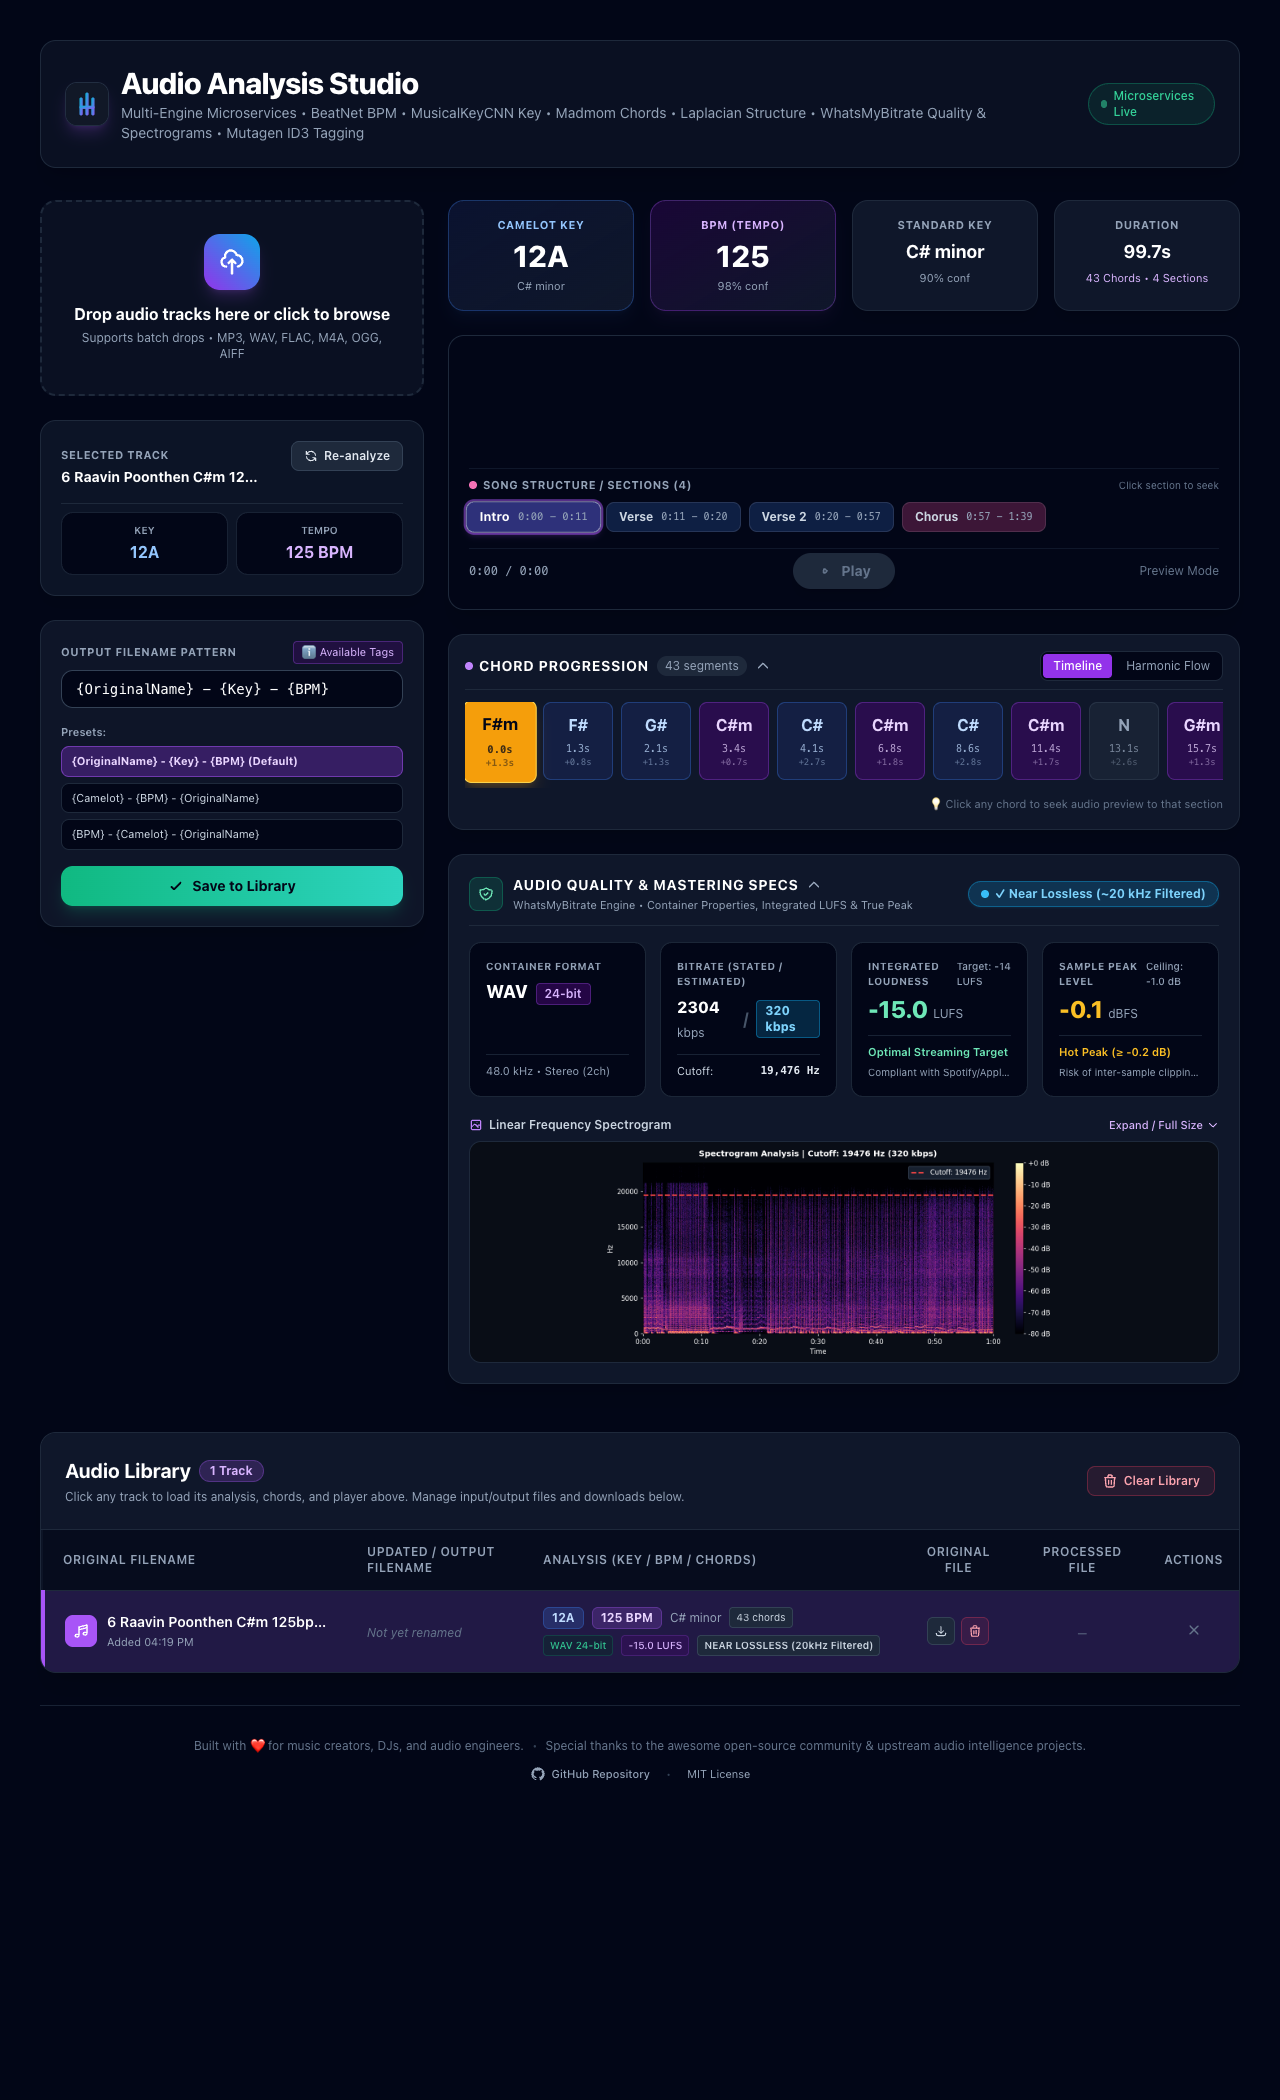
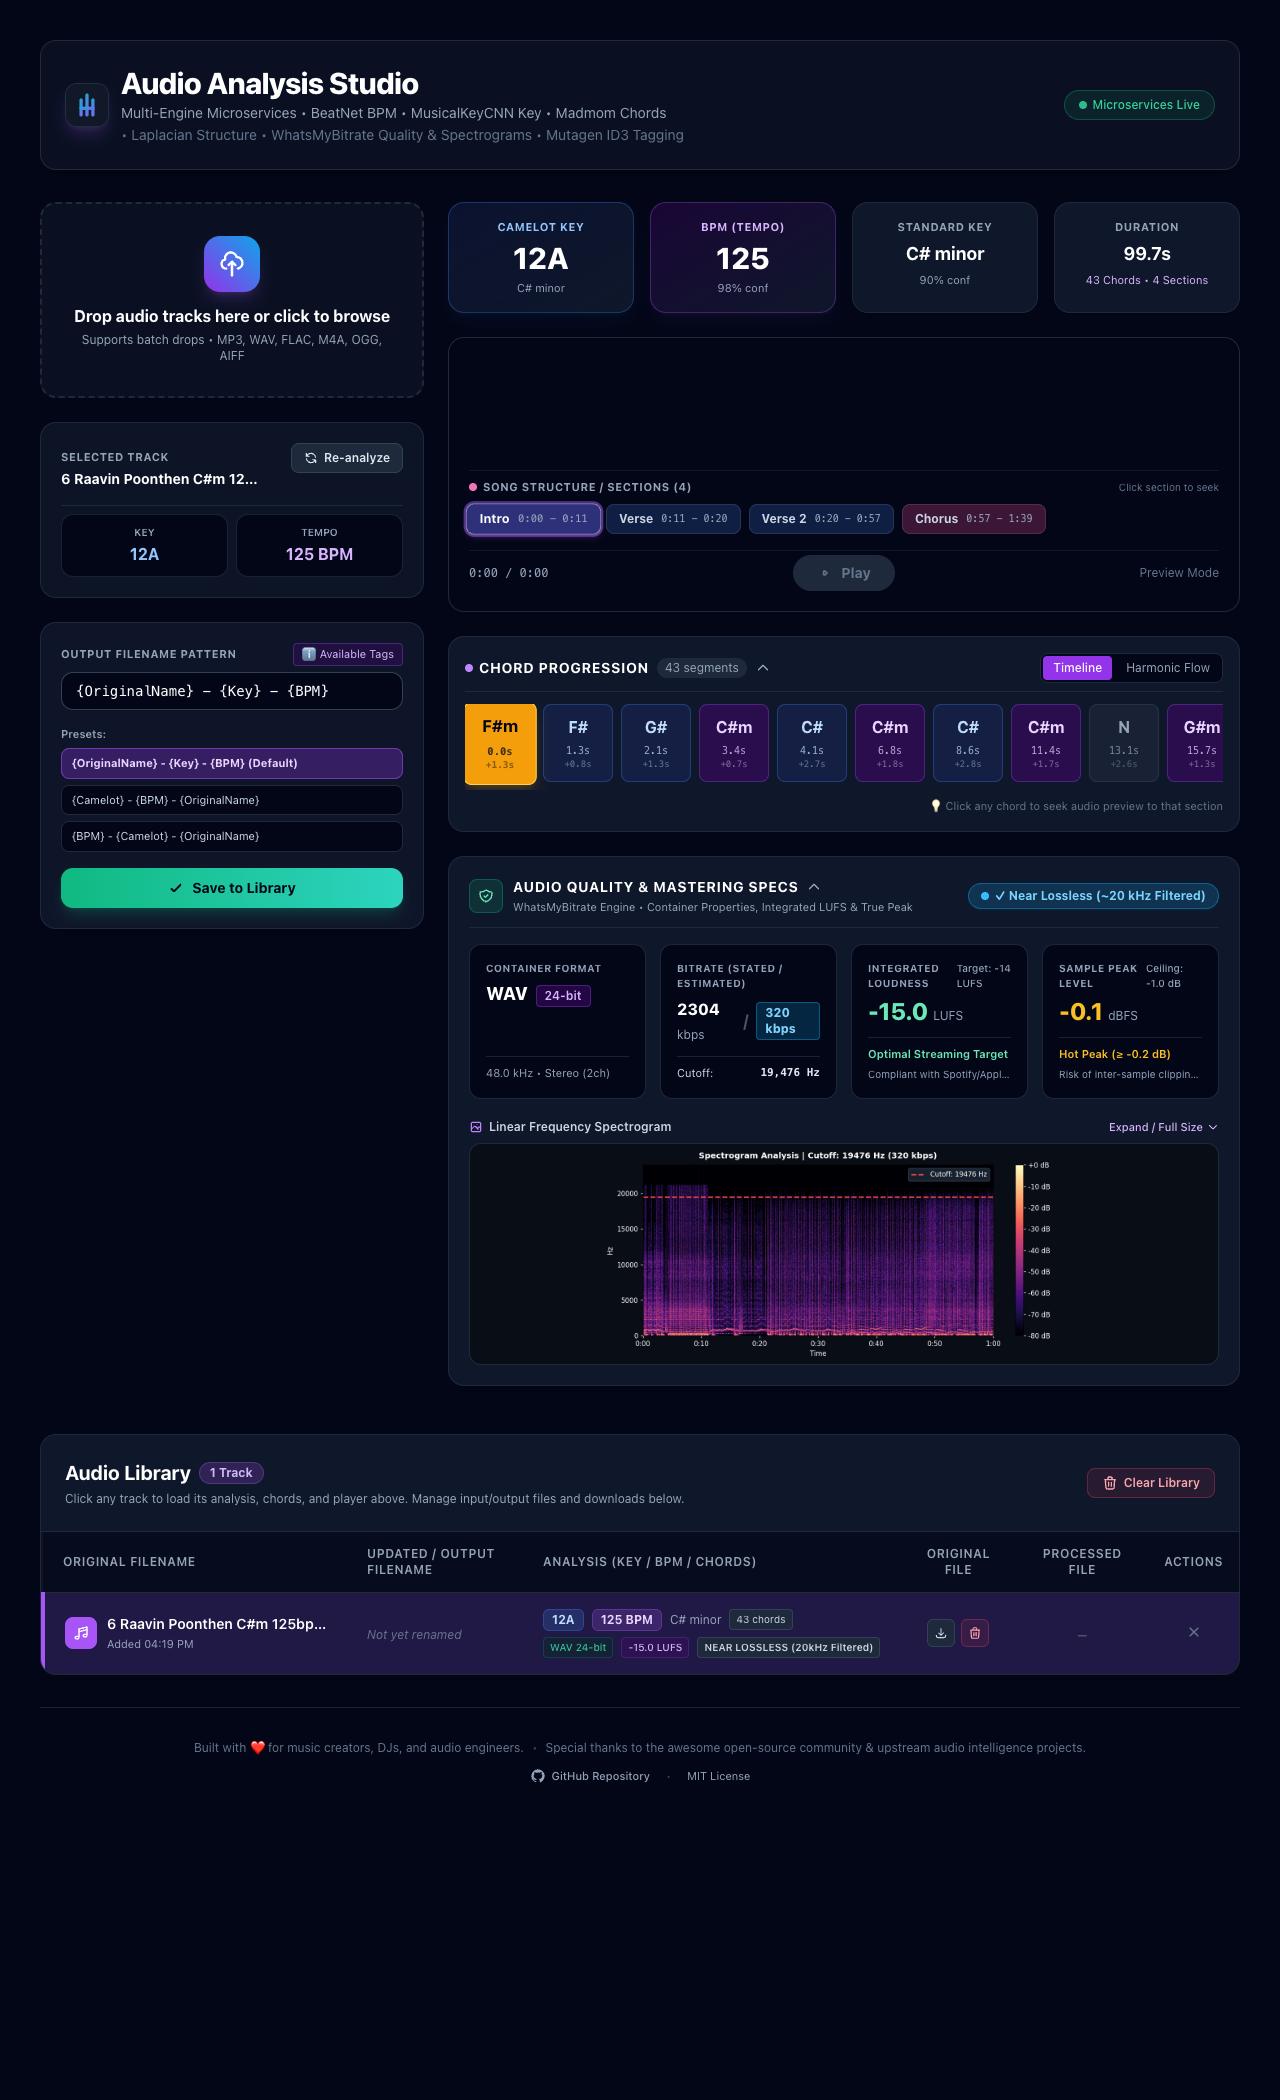
style(header): split subtitle into two lines and keep Microservices Live badge in one line

diff --git a/frontend/src/App.tsx b/frontend/src/App.tsx
@@ -81,15 +81,16 @@ function App() {
                 <h1 className="text-2xl sm:text-3xl font-extrabold text-white tracking-tight">
                   Audio Analysis Studio
                 </h1>
-                <p className="text-slate-400 text-xs sm:text-sm mt-0.5">
-                  Multi-Engine Microservices • BeatNet BPM • MusicalKeyCNN Key • Madmom Chords • Laplacian Structure • WhatsMyBitrate Quality & Spectrograms • Mutagen ID3 Tagging
-                </p>
+                <div className="text-slate-400 text-xs sm:text-sm mt-0.5 space-y-0.5 leading-snug">
+                  <p>Multi-Engine Microservices • BeatNet BPM • MusicalKeyCNN Key • Madmom Chords</p>
+                  <p className="text-slate-500">• Laplacian Structure • WhatsMyBitrate Quality & Spectrograms • Mutagen ID3 Tagging</p>
+                </div>
               </div>
             </div>
           </div>
 
-          <div className="flex items-center gap-3">
-            <span className="text-xs text-emerald-400 bg-emerald-500/10 border border-emerald-500/30 px-3 py-1 rounded-full font-medium flex items-center gap-1.5">
+          <div className="flex items-center gap-3 flex-shrink-0">
+            <span className="text-xs text-emerald-400 bg-emerald-500/10 border border-emerald-500/30 px-3.5 py-1.5 rounded-full font-medium flex items-center gap-1.5 whitespace-nowrap shadow-sm">
               <span className="w-2 h-2 rounded-full bg-emerald-400 animate-pulse"></span>
               Microservices Live
             </span>
